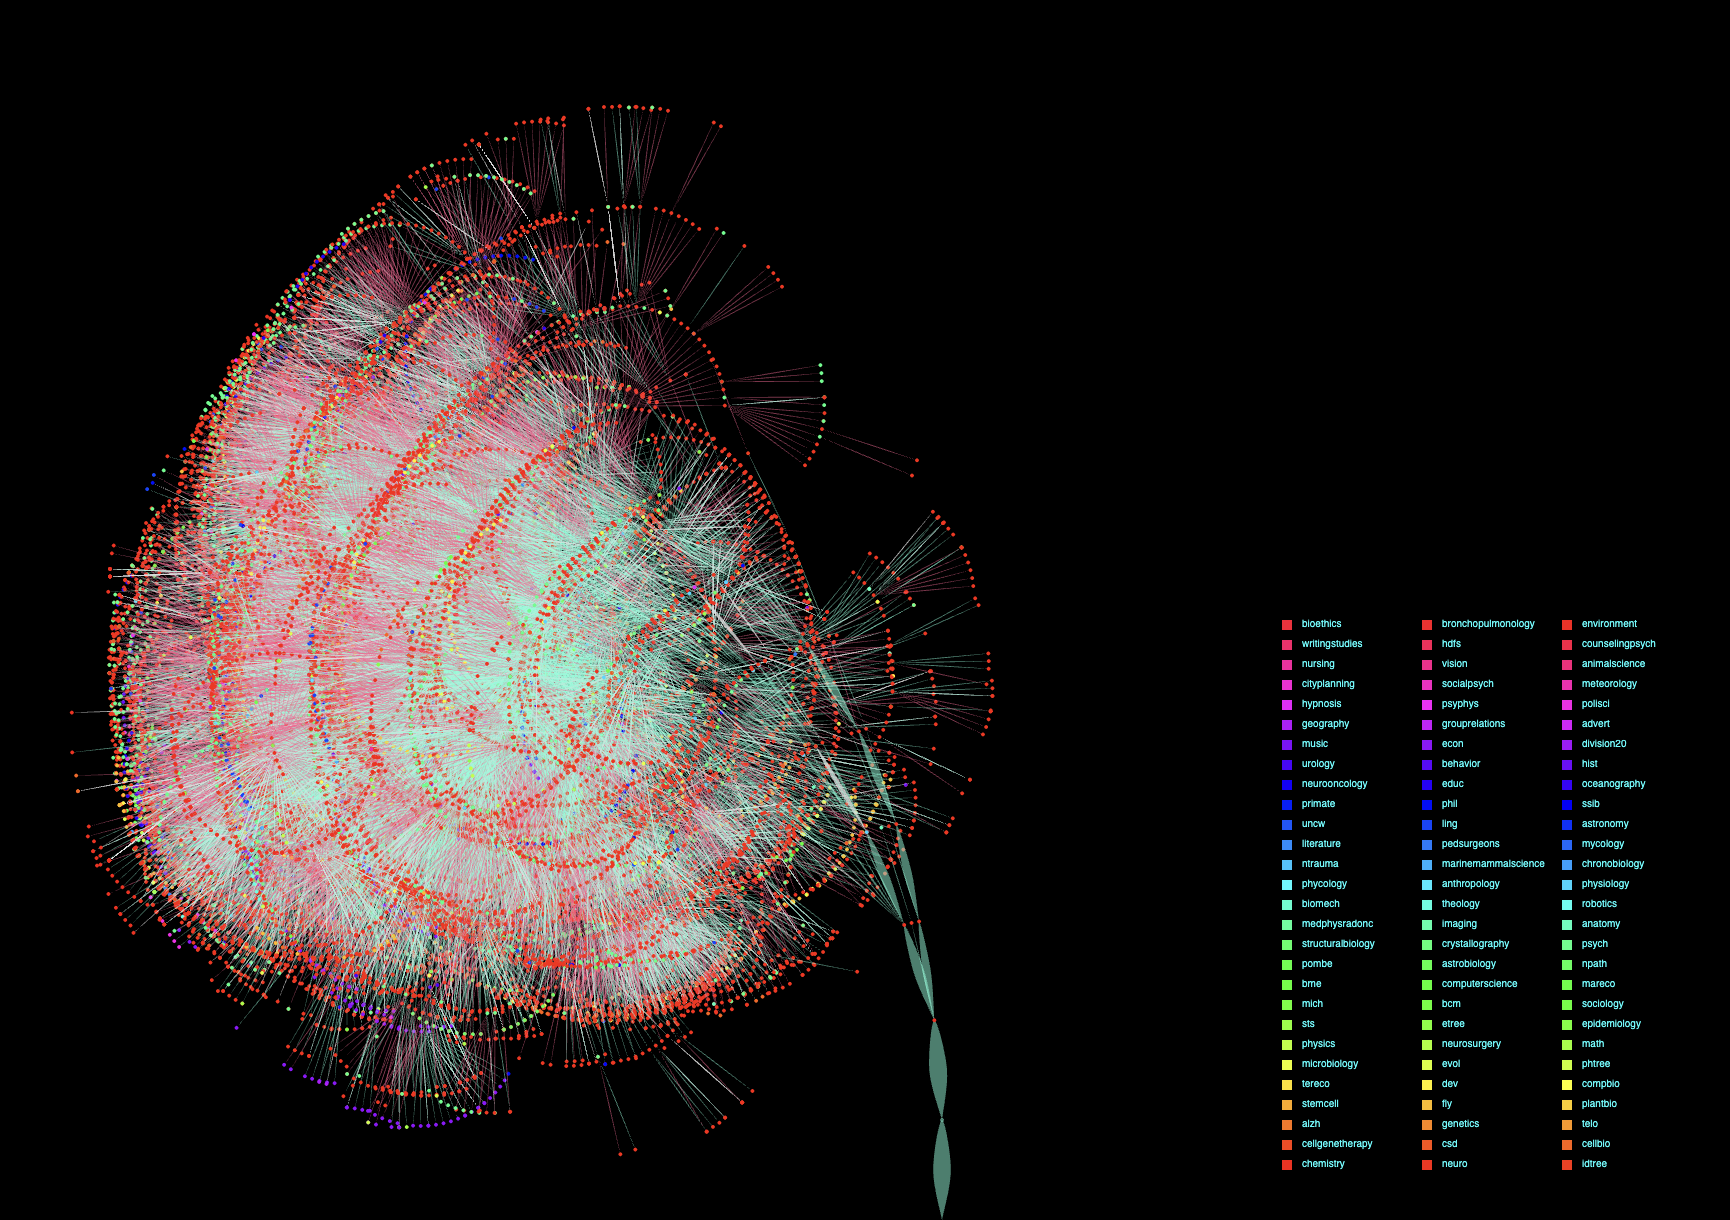
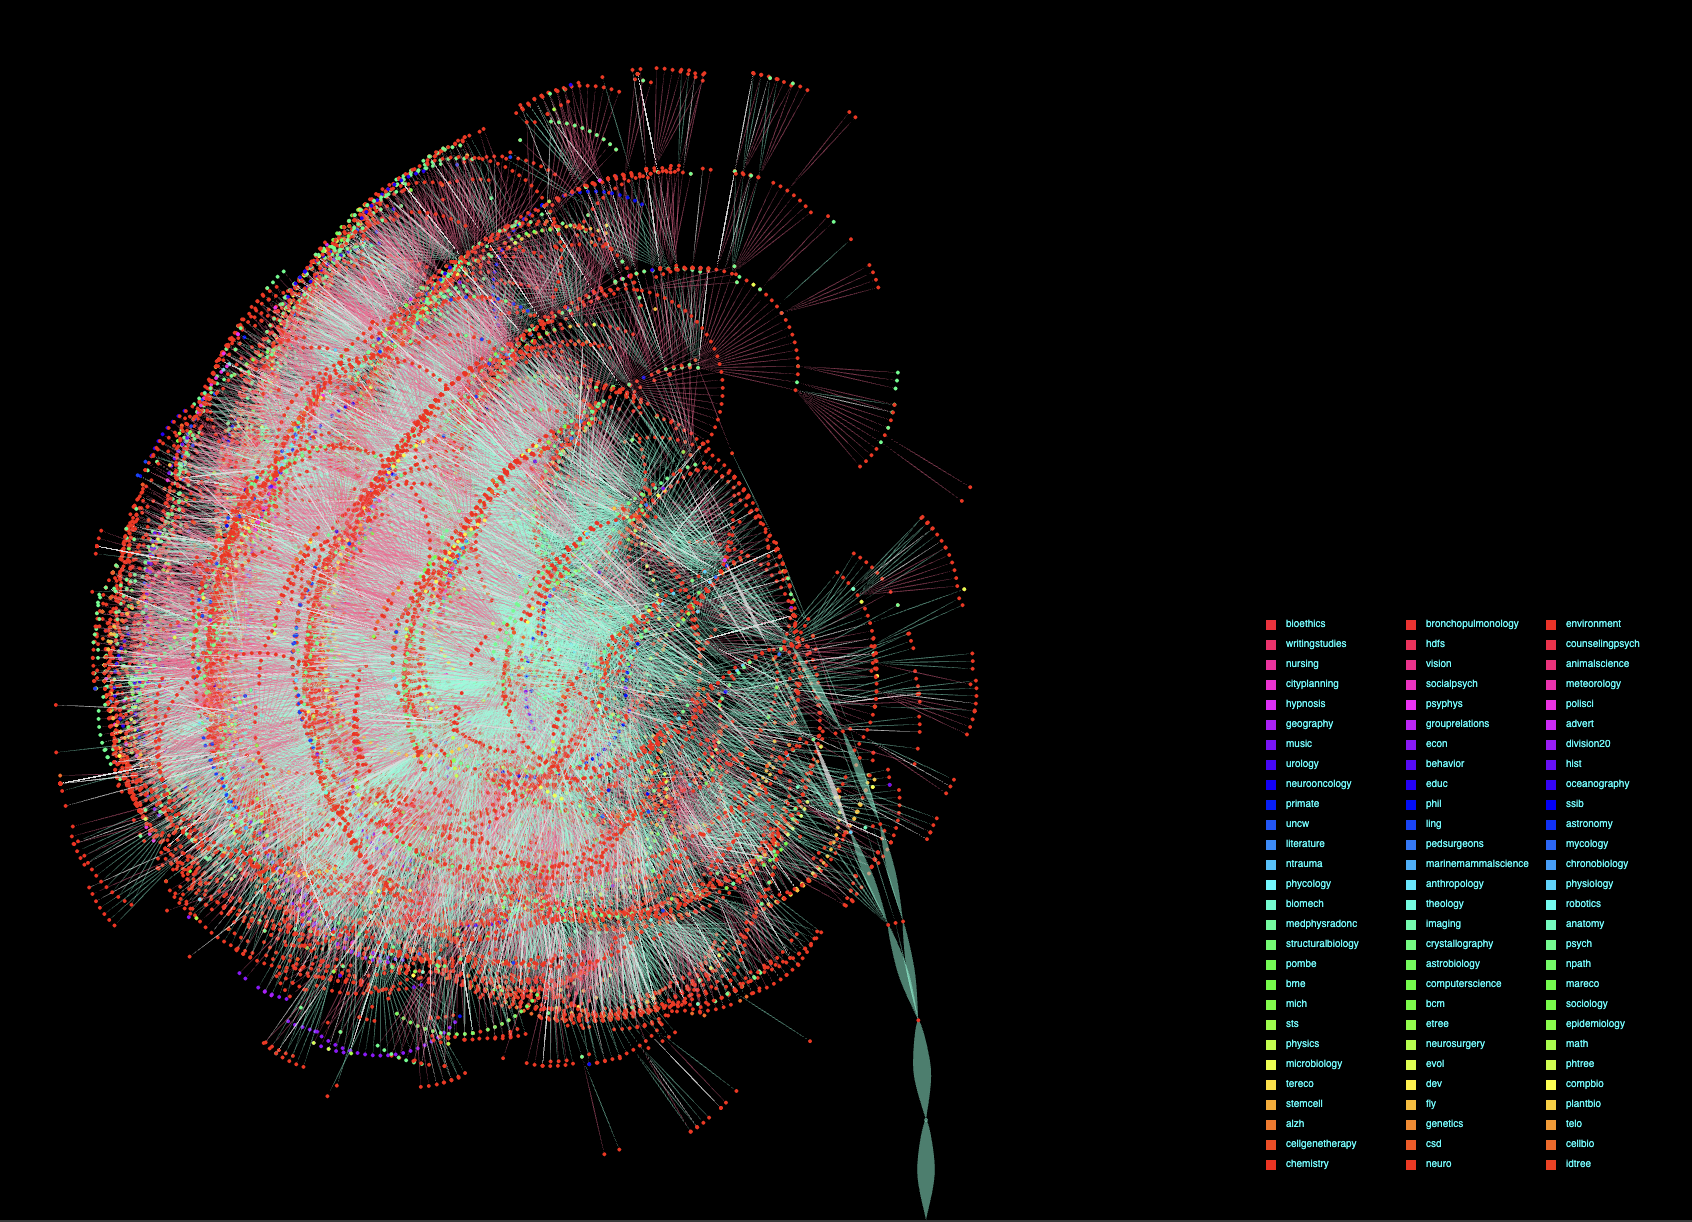
updated new tree

Changed region(s): [[0.0, 0.0623, 1.0, 1.0], [0.7376, 0.4984, 0.9527, 0.9656]]

diff --git a/tree.js b/tree.js
@@ -8,19 +8,19 @@ var degreeB;
 var DEGREEA_MAX = 360;
 var DEGREEB_MAX = 40;
 
-var ANIMATIONRANGE_MAX = 200;// End curl
-var ANIMATIONRANGE_MIN = 20;// Start curl
-var ANIMATIONSPEED = 0.5; // the bggier the quicker
+var ANIMATIONRANGE_MAX = 100;// End curl
+var ANIMATIONRANGE_MIN = 17;// Start curl
+var ANIMATIONSPEED = 2; // the bggier the quicker
 var degreeAnimation = ANIMATIONRANGE_MIN;
 let bounce = true;
-var useAnimation = false; // make this false if you want to use slider
+var useAnimation = true; // make this false if you want to use slider
 
 // Color(Hue) ranges between 0 to 360, 
 var colorMap = new Map();// researchArea:string => color:number
 
 // coefficient increase => male and female curl smaller
 // COEFFICIENT must bigger than DEGREEB_MAX
-var COEFFICIENT = 80;
+var COEFFICIENT = 50;
 
 var LEAFWIDTH = 100;//the bigger the thcker
 var CIRCLESIZE = 4;// the bigger the bigger dots
@@ -34,16 +34,16 @@ function preload() {
     // data = loadJSON("./tree-candidate-new/FRANCIS GALTON (Widest and Tallest).json");//60
     // data = loadJSON("./tree-candidate-new/Hiroshi Ishii.json");//60
     // data = loadJSON("./tree-candidate-new/Jane Goodall.json");//60
-    data = loadJSON("./tree-candidate-new/Jennifer A Doudna.json");//60
+    // data = loadJSON("./tree-candidate-new/Jennifer A Doudna.json");//60
 
-    // data = loadJSON("./tree-candidate-new/JOHANN MULLER (most male-tilted).json");//40
+    data = loadJSON("./tree-candidate-new/JOHANN MULLER (most male-tilted).json");//40
     // data = loadJSON("./tree-candidate-new/Ludwig Boltzmann.json");//110
     // data = loadJSON("./tree-candidate-new/Niels Bohr.json");//140
     // data = loadJSON("./tree-candidate-new/Richard P Feynman.json");//80
     // data = loadJSON("./tree-candidate-new/ROBERT HARE.json");//80
     // data = loadJSON("./tree-candidate-new/Stephen Hawking.json");//60
     // data = loadJSON("./tree-candidate-new/William James.json");//60
-    // data = loadJSON("./tree-candidate-new/WILLIAM SPENCER HUTCHINSON.json");
+    // data = loadJSON("./tree-candidate-new/WILLIAM SPENCER HUTCHINSON.json");//60
 }
 
 
@@ -120,7 +120,7 @@ function draw() {
 
     // save("tree.svg"); // give file name
     // print("saved svg");
-    // noLoop(); // export once
+    // noLoop(); // export oncDonna Harawaye
 }
 
 /**
@@ -179,7 +179,7 @@ function buildTree(children, begin, end) {
 
         if (children[i].gender === 'woman') {
             if (useAnimation) {
-                newEnd.rotate((womanNum + 1) * PI / (ANIMATIONRANGE_MAX - degreeAnimation + 20));
+                newEnd.rotate((womanNum + 1) * PI / (ANIMATIONRANGE_MAX - degreeAnimation + 10));
             } else {
                 newEnd.rotate((womanNum + 1) * PI / (COEFFICIENT - degreeB));
             }
